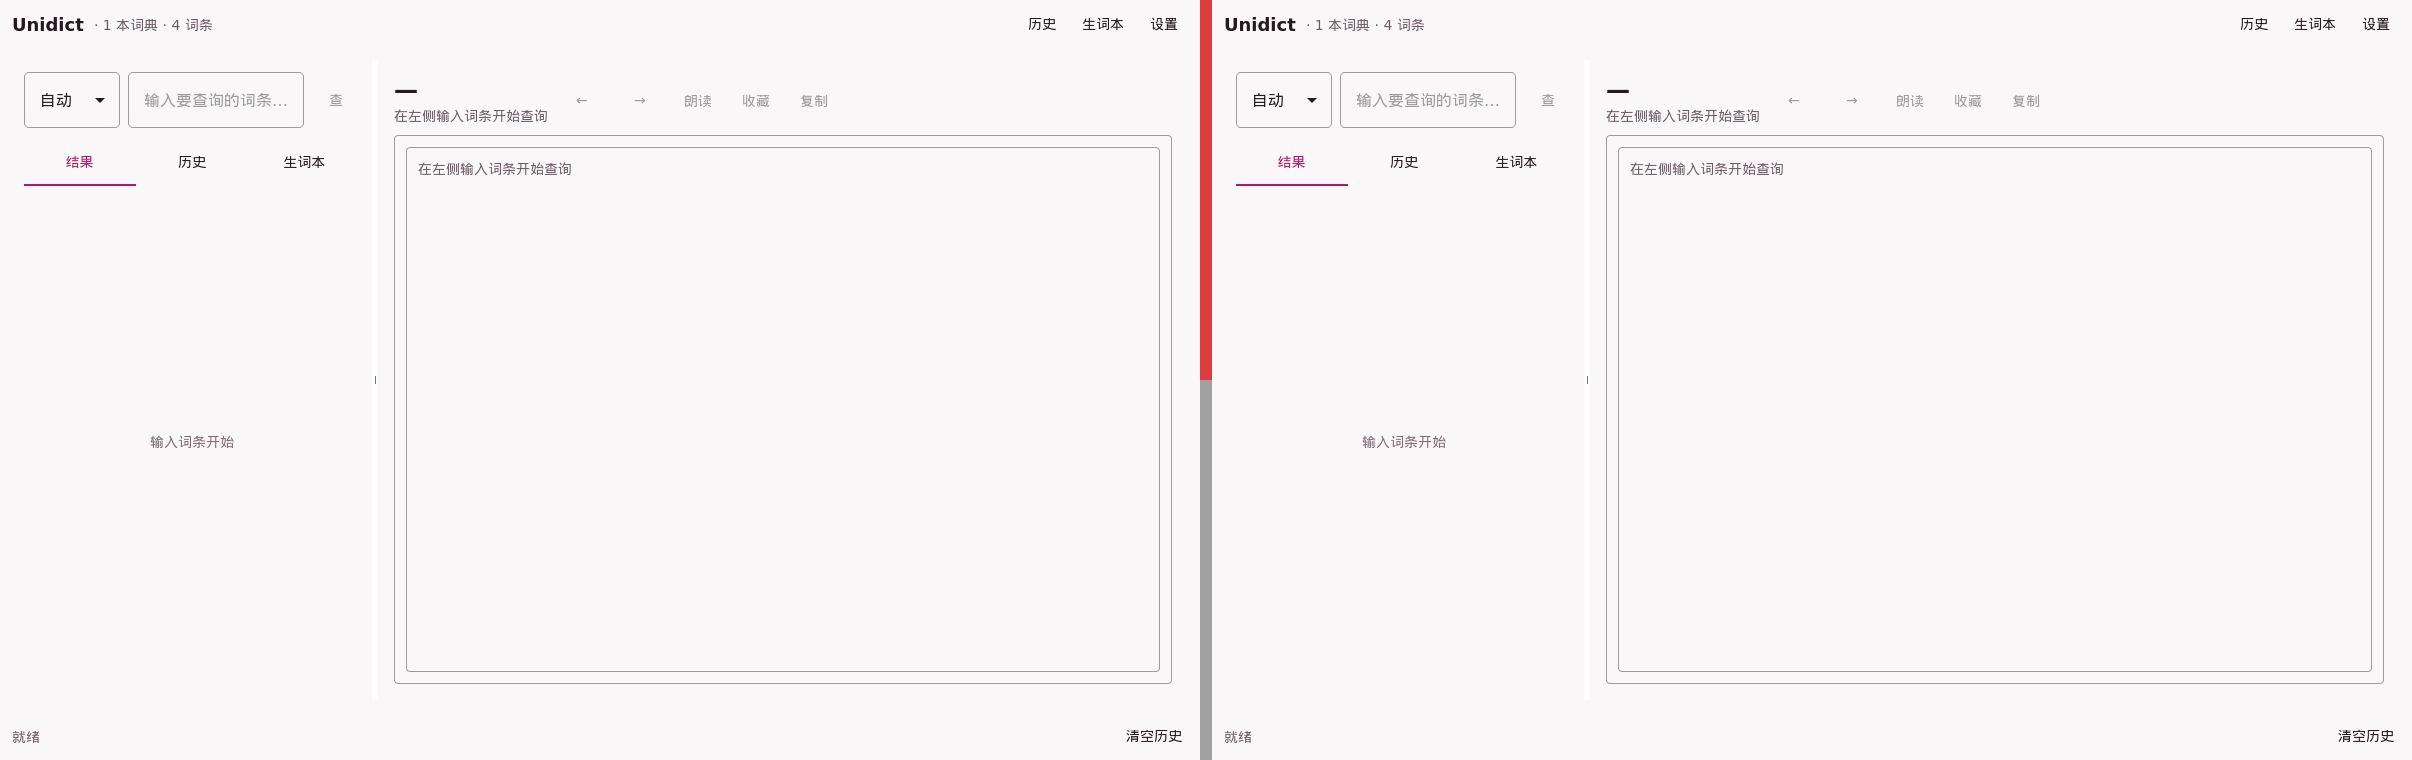
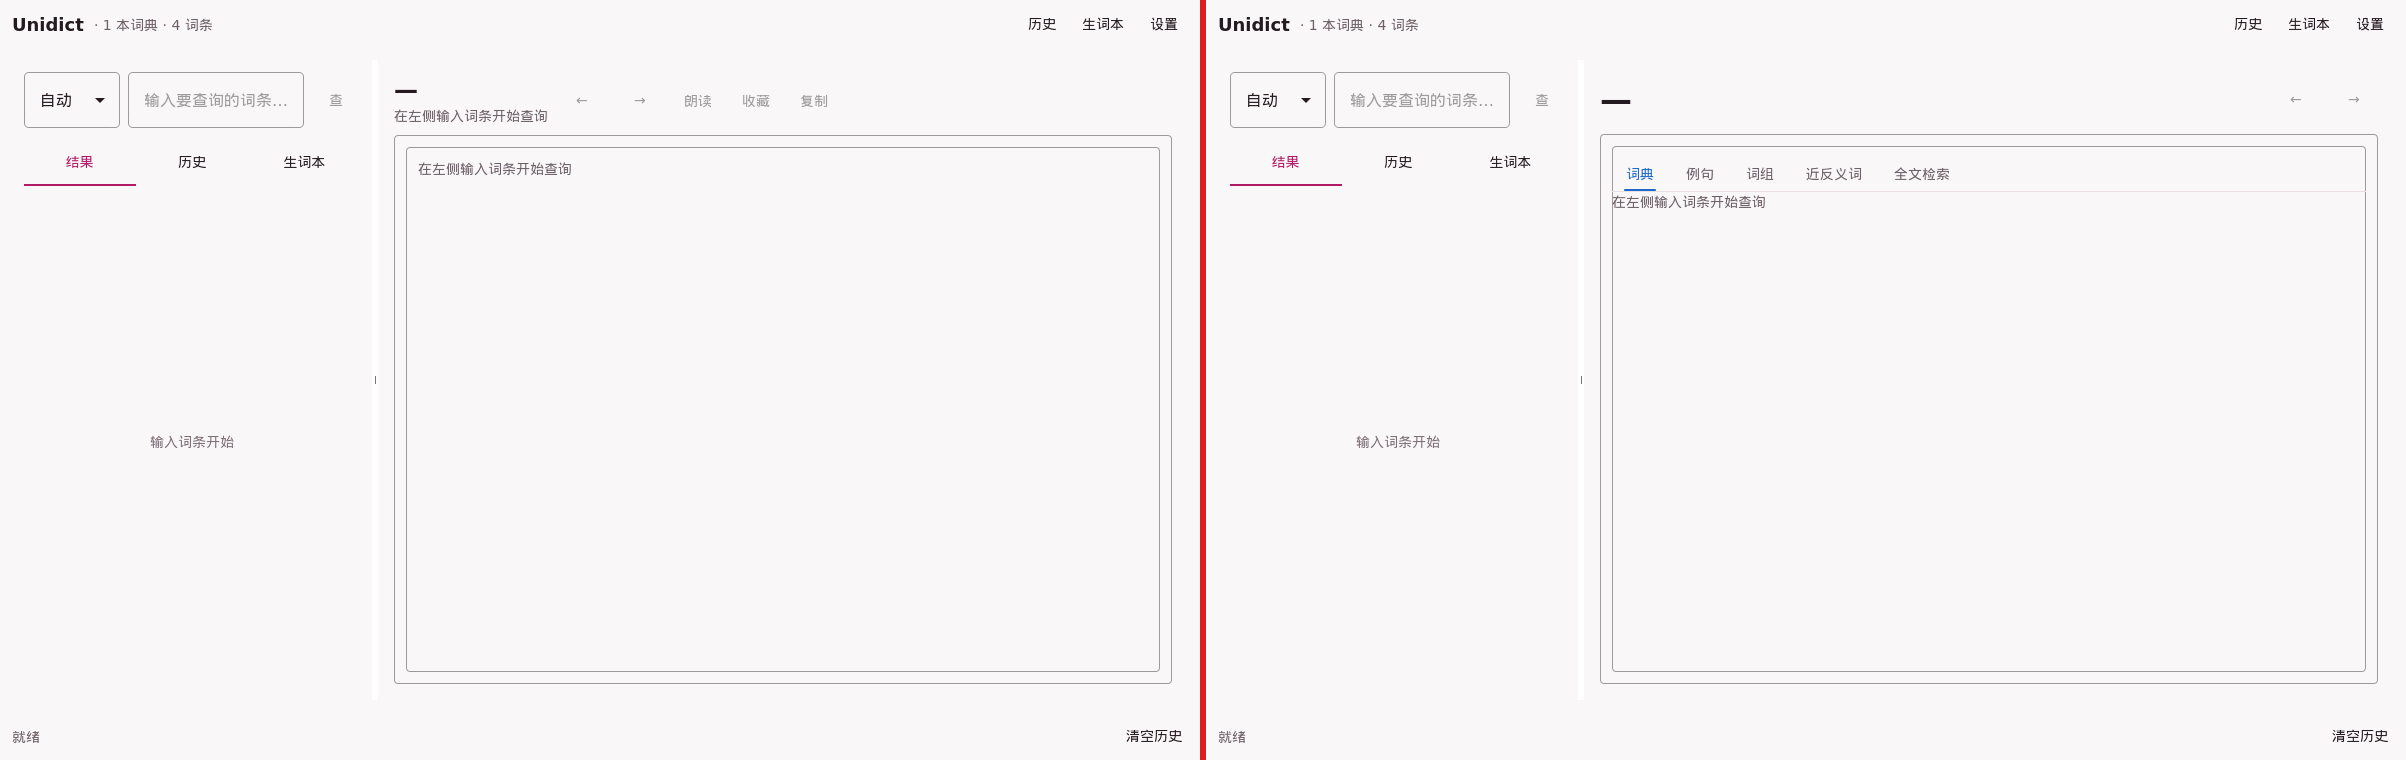
docs(ui): BUG-010 验收留档——八屏基线刷新 + gui 12 屏 + 104 项接线清单回填
- docs/ui 八屏（qmlui）基线刷新为现实现输出：10-04 按欧路标准重排
  （759f93e）+ 接线修复（05dab90）后 10-01 原型稿已过时，「实现即
  原型」口径的现行基准随之更新
- compare/ 八张合成图改为 左=10-01 旧稿 右=10-05 现实现，留设计演进
  记录；此后逐屏走查以新基线为对照面
- compare/gui/ 新增 12 屏（gui 端，设计基准=gui-ui-structure.md）：
  md5 全唯一、亮暗灰度 250/45 可区分
- BUGS.md BUG-010 收口：修复明细（装饰样式/朗读反馈/复制遮蔽/tab
  懒取/两个绑定断线/欧路重排）+ 双端真点全清单（qmlui 57 + gui 47，
  逐项含真点后可观测状态差）

diff --git a/BUGS.md b/BUGS.md
@@ -3,7 +3,7 @@
 用户报告与自查缺陷登记。格式：现象 / 根因 / 修复 / 验收。修复完成即勾，
 带后续验收项的写明口径。
 
-## BUG-010 UI 未按原型图实现 + 大量点击无反应（2026-10-04 登记，修复中）
+## BUG-010 UI 未按原型图实现 + 大量点击无反应（2026-10-04 登记，2026-10-05 修复+双端验收通过）
 
 **现象（用户原话）**：「现在难点是界面 虽然有原型图 但还是没有根据原型图
 实现 点击很多都没有反应」。
@@ -13,24 +13,152 @@
    BUG-009 定案基准）逐控件走查实现：逐屏截图与原型对照，布局/层级/
    配色/控件形态逐项对齐，偏差列清单改齐；
 2. 点击无反应全面排查：逐个可点元素（按钮/词条卡/Tab/折叠卡/发音/
-   设置项）**真点测试**（离屏注入真实 QMouseEvent/QWidget 鼠标事件走
-   事件路径，非直接调函数），断线的接上信号/回调，点不动的不许留，
-   每修一个真点验证一次。
+   设置项）**真点测试**（离屏注入真实鼠标事件走事件路径，非直接调
+   函数），断线的接上信号/回调，点不动的不许留，每修一个真点验证一次。
 
-**验收口径**：gui/qmlui 双端逐屏截图对照原型图 + 「可点元素全接线」清单
-（每个都有真点过的证据）；修完才回主线批次。
+**修复明细**：
+- **装饰样式从未拼上**：`MainDesktop.decorateHtml` 的 `<pre>`/外层 div
+  样式是坏的 JS 字符串（`+ Theme.window +` 落在字面量内部），主题色/
+  字体/边框全没上到释义 HTML——改为真拼接。
+- **朗读三类「点了像没点」**：音标行喇叭本地 TTS 不可用时静默无反馈
+  → 改词条卡朗读统一入口，点击必有状态行反馈（不可用时明示去
+  设置→语音 换在线发音）；英/美分口音路径；例句喇叭改读整句。
+- **复制点击 TypeError**：MouseArea 里的裸名 `clip` 被 `QQuickItem.clip`
+  布尔属性遮蔽（不是服务对象）→ `win.clipService` 限定，补空态回退
+  分支，点击落「已复制释义 · 词典」状态行。
+- **tab 懒取无加载提示**：例句/全文首查构建索引秒级阻塞 → 状态行
+  收口（加载中… → 共 N 条）。
+- **两个真断线**（`05dab90`，qmlui 审计挖出）：① 导航栈 push/pop 原地
+  改数组不发 changed 信号，←/→ 的 enabled 绑定永不重评估、永远禁用
+  → 改整赋；② `ensureTabData` 用 `tabData[key]=…` 原地变异，例句/词组/
+  近反义/全文四个内容 tab 的 model 绑定永不重评估、永远空表 → 改整赋
+  新对象。
+- **结果区按欧路标准重排**（`759f93e`）：配色收敛、层级拉开、括号注释
+  三级灰弱化、实体色 chip（修 rgba 浮点 alpha 解析成纯黑的坑）、gui 端
+  HTML 同口径。
+- **gui 端基建**：`6b02e99` 补 16 处 setObjectName 供定位 + 47 项真点
+  审计 harness。
 
-**排查进行中（先记已定位项，随修随更）**：
-- `MainDesktop.decorateHtml` 的 `<pre>`/外层 div 样式拼接是**坏的 JS
-  字符串**（`+ Theme.window +` 等整段落在字符串字面量内部，从未做真
-  拼接）——主题色/字体/边框样式全部没上到释义 HTML，外层 div 的
-  style 属性被截断成垃圾属性。典型「看起来没按原型渲染」来源。
-- 音标行喇叭（英/美/拼/朗读）点击在本地 TTS 不可用时**静默无反馈**
-  （`ttsSay` 直接空操作，无状态行提示）；英/美两个喇叭行为完全相同
-  （不分口音）；例句行喇叭读的是**词**不是例句。三类「点了像没点」。
-- 例句/全文 tab 懒取走 `fullTextLookup`，大词典首查构建倒排索引秒级
-  阻塞且无任何加载提示（点 tab 卡住 = 「没反应」体感）。
-- 全量真点清单与逐项证据见修复后回填。
+**验收结果（2026-10-05，两项口径全过）**：
+1. **逐屏截图对照**：qmlui 八屏设计基线刷新为现实现（10-04 重排后），
+   旧稿|新实现演进记录与客观度量见 `docs/ui/compare/README.md`；gui 端
+   12 屏留档 `docs/ui/compare/gui/`（设计基准=gui-ui-structure.md，
+   md5 全唯一、亮暗灰度 250/45）。
+2. **可点元素全接线清单**：qmlui **57 项**（`ui_click_audit`，5 连跑
+   稳定）+ gui **47 项**（`gui_click_audit`，3 连跑稳定），双端均进
+   ctest 常驻回归；逐项证据（真点后可观测状态差）如下。
+
+<details><summary>qmlui 57 项真点清单</summary>
+
+1. decorateHtml <pre>/外层 div 主题样式拼接 — 含 background:#、color:# 主题色且无字面 "+ Theme." 残留
+2. openWord(hello) 聚合查询落状态行 — statusText=找到 1 个词典结果
+3. 音标行英/美喇叭存在（fixture 词头带 英/美 音标） — phonSpeakerBr 与 phonSpeakerUs 均可见于词条卡
+4. 英音喇叭点击反馈 — hasLocalTts=false, statusText=本地语音不可用，可在 设置→语音 换用在线发音
+5. 美音喇叭点击反馈（与英音分口音路径） — statusText=本地语音不可用，可在 设置→语音 换用在线发音
+6. 生词本轻入口点击 — statusText=已加入生词本: hello
+7. 复制轻入口点击（剪贴板写入） — statusText=已复制释义 · Unidict Click Audit Fixture
+8. 笔记轻入口打开笔记弹层 — notePopup visible
+9. 笔记弹层取消按钮点击收起 — notePopup hidden after cancel
+10. 内容 tab 元素定位 — contentTab_examples found
+11. 例句 tab 点击（懒取+加载状态行收口） — examples=5 条, statusText=共 5 条
+12. 例句喇叭点击（读整句+反馈） — statusText=本地语音不可用（未检测到系统 TTS 语音），可在 设置→语音 换用在线发音
+13. 例句行词链点击跳转 — currentWord=greeting, 期望=greeting
+14. 词组 tab 点击懒取数据 — phrases[0].word=hello everyone
+15. 词组词链点击跳转 — currentWord=hello everyone, 期望=hello everyone
+16. 近反义 tab 点击懒取数据 — related[0].word=hello everyone
+17. 近义词链接点击跳转 — currentWord=hello everyone, 期望=hello everyone
+18. 全文检索 tab 点击（懒取+状态行） — fulltext=5 条, statusText=共 5 条
+19. 分组头存在 — groupHeader_0 located
+20. 分组头点击折叠 — collapsed 含 true
+21. 分组头再点展开 — collapsed 全 false
+22. 组内词头链点击跳转 — currentWord=hello, 期望=hello
+23. 导航 ← 返回上一词 — currentWord=hello
+24. 导航 → 前进 — currentWord=world
+25. 侧栏「查」按钮点击提交查询 — currentWord=hello
+26. 建议列表项点击查询 — currentWord=hello, 期望=hello
+27. 侧栏「历史」tab 点击 — currentTabIndex=1
+28. 历史项点击查询 — currentWord=greeting, 期望=greeting
+29. 侧栏「生词本」tab 点击 — currentTabIndex=2
+30. 标签筛选 chip 点击过滤 — vocabTagFilter=greeting
+31. 「全部」chip 点击清筛选 — vocabTagFilter 为空
+32. 生词卡点击查询 — currentWord=hello, 期望=hello
+33. 生词卡「+标签」打开标签对话框 — tagDialog visible
+34. 生词卡「笔记」打开笔记对话框 — noteDialog visible
+35. 「导出CSV」点击（signal 级：native 文件对话框离屏不出窗） — clicked 计数=1
+36. 头部「历史」按钮 — currentTabIndex=1
+37. 头部「生词本」按钮 — currentTabIndex=2
+38. 头部「设置」按钮开抽屉 — toolsDrawer visible
+39. 剪贴板取词开关点击（UI+core 双证） — checked 0→1
+40. 剪贴板取词开关还原 — core 状态回原
+41. 取词悬浮窗开关点击 — checked 1→0
+42. 轮询间隔 Slider 点击改值 — value 500→1900
+43. 最短词长 SpinBox「+」步进钮点击 — value 2→3
+44. 最长词长 SpinBox「+」步进钮点击 — value 50→51
+45. 抽屉「语音」tab 切换 — volumeSlider 可见
+46. 「停止」按钮点击 — 执行无异常（停止播放副作用离屏不可观测）
+47. 「刷新」语音按钮点击 — 执行无异常（重扫语音副作用离屏不可观测）
+48. 口音 ComboBox 选择接线（signal 级） — pronAccent=2
+49. 发音源 ComboBox 选择接线（signal 级） — pronSourceMode=1
+50. 发音源还原本地态 — pronSourceMode=0
+51. 页脚「清空历史」按钮 — statusText=历史已清空, history=0
+52. 取词窗弹出 — quickLookupPane visible
+53. 取词窗朗读按钮（TTS 缺失给明示） — statusText=本地语音不可用（未检测到系统 TTS 语音），可在 设置→语音 换用在线发音
+54. 取词窗生词本按钮 — statusText=已加入生词本: hello
+55. 取词窗 ✕ 关闭 — pane hidden
+56. 取词窗「在主窗打开」收窗并落主窗词条卡 — pane hidden, currentWord=hello
+57. 取词窗「关闭」按钮 — pane hidden
+</details>
+
+<details><summary>gui 47 项真点清单</summary>
+
+1. 启动初始态：收藏按钮禁用（未查询） — starButton enabled=0
+2. 启动初始态：搜索框就位 — placeholder=输入单词或词组…
+3. 启动初始态：词典管理入口存在 — manageButton located
+4. 回车查询落状态行 — statusText=Found in Unidict Click Audit Fixture
+5. 回车查询出释义 — resultView len=222
+6. 查询成功后收藏按钮可用 — starButton enabled=1
+7. 补全选中回填并查询 — items=1 picked=hello
+8. 内容页签五个 — count=5
+9. 五内容页签逐个真点切换 — 0-4 全部切到位
+10. 例句页有数据 — len=598
+11. 词组页有数据 — len=89
+12. 近反义页有数据 — len=15
+13. 全文页有数据 — len=583
+14. 例句页 #ft 锚点真点跳转 — clicked=1 word=hello
+15. 侧栏页签（历史/收藏） — count=2
+16. 侧栏「收藏」页签真点切换 — currentIndex=1
+17. 侧栏「历史」页签真点切换 — currentIndex=0
+18. 历史有条目（前序查询产生） — count=1
+19. 历史项双击回查 — word=hello input=hello
+20. 历史右键菜单真点「置顶/取消置顶」 — menuPicked=1 pinned 0→1
+21. 历史右键菜单真点「删除该条」 — removed=1 count 2→1
+22. 收藏按钮真点入库 — vocabList=1 stored=1
+23. 收藏项双击回查 — word=hello input=hello
+24. 收藏右键真点「设置标签…」→ 输入框代填落库 — modalSeen=1 tagged=1
+25. 收藏分组下拉聚合了 en 标签 — items=2
+26. 收藏分组过滤真点生效 — picked=1 count=1
+27. 收藏右键菜单真点「移除收藏」 — removed=1 count 1→0
+28. 工具栏剪贴板取词按钮就位 — located
+29. 剪贴板取词开关真点翻转+记忆 — 0→1
+30. 剪贴板取词开关还原 — 回 0
+31. 主题循环按钮就位 — 主题: 跟随系统
+32. 主题真点切换 — 主题: 跟随系统 → 主题: 浅色
+33. 主题循环还原 — 回 主题: 跟随系统
+34. 释义字体按钮就位 — located
+35. 释义字体真点弹字体对话框（取消路径） — modalSeen=1
+36. 笔记按钮就位且可用 — enabled=1
+37. 笔记真点代填保存落库 — modalSeen=1 note=audit note
+38. 发音练习按钮就位 — located
+39. 发音练习真点弹面板（离屏即关） — modalSeen=1
+40. 词典管理入口就位 — located
+41. 词典管理对话框真点打开，八按钮齐全 — modalSeen=1 buttons=8
+42. 词典管理「启用/禁用」真点翻转 — toggled=1
+43. 分组标签真点设置 → 分组下拉聚合 — groupBox items=2
+44. 「添加词典文件…」真点弹文件对话框（取消路径） — modalSeen=1 fileDialog=1
+45. 全局热键按钮就位 — located
+46. 全局热键平台态正确 — supported=0 enabled=0
+47. 关窗收口（离屏无托盘直退） — visible=0
+</details>
 
 ## BUG-009 查词结果展示全是乱的、很多重复 ✅修复+三词走查通过（2026-10-03 登记并修复）
 

diff --git a/docs/ui/compare/README.md b/docs/ui/compare/README.md
@@ -1,11 +1,30 @@
-# 原型 vs 实现对照
+# 实现截图留档（BUG-010 逐屏对照）
 
-每张图：**左 = `docs/ui/` 原型稿，右 = 当前实现离屏截图**（1200×760，
-红/灰竖条分隔）。判据：单屏 md5 两侧逐字节一致（home/result/vocab/
-settings × light/dark 八张全 MATCH，2026-10-03 BUG-003 修复后复验：
-八屏像素差合计 0、md5 逐字节一致——实现即原型）。
-修复内容见 BUGS.md BUG-003（抽屉定高 + 语音 ScrollView）。
+BUG-010 验收的截图侧证据（接线侧证据=双端真点清单，见 BUGS.md）。
+采集：`-DUNIDICT_BUILD_UI_SANDBOX=ON` 后跑
 
-实现截图由 `unidict_ui_sandbox`（`-DUNIDICT_BUILD_UI_SANDBOX=ON`）对
-QML 应用（MainDesktop.qml）离屏采集；每日构建 Windows/macOS 包的 GUI
-主程序 `unidict_qml` 加载的正是这套 QML（BUGS.md BUG-002 修复记录）。
+```bash
+UNIDICT_DICTS=examples/dict.json build/Release/unidict_ui_sandbox <出图目录>
+UNIDICT_DICTS=qmlui/dev/fixtures/click_audit_dict.json \
+    build/Release/unidict_gui_sandbox <出图目录>
+```
+
+## qmlui（`home/result/vocab/settings × light/dark` 八张，1200×760）
+
+- **设计基准 = `docs/ui/`**（2026-10-01 稿；2026-10-04 起实现按欧路标准
+  重排——结果区配色/层级/注释弱化（759f93e）+ 接线修复（05dab90）——
+  基线于 2026-10-05 刷新为现实现输出，即「实现即原型」口径的现行基准）。
+- 本目录八张合成图：**左 = 10-01 旧稿，右 = 10-05 现实现**（红竖条
+  分隔），留设计演进记录；此后逐屏走查以 `docs/ui/` 新基线为对照面。
+- 每日构建 Windows/macOS 包的 GUI 主程序 `unidict_qml` 加载的正是这套
+  QML（BUGS.md BUG-002 修复记录）；抽屉定高等历史修复见 BUG-003。
+
+## gui（`gui/` 子目录 12 张：home/result/examples/history/vocab/manage × light/dark）
+
+- **设计基准是 `docs/gui-ui-structure.md`**（Qt Widgets 一屏一焦点），
+  与 `docs/ui/` 的 QML 原型稿非同一设计基准——双端同属「按各自设计稿
+  实现+全接线」验收，不逐像素互比。
+- 客观度量（2026-10-05 采集复验）：12 张 md5 全唯一；亮暗灰度均值
+  250 vs 45（主题可区分性达标）。图由 `unidict_gui_sandbox` 离屏采集，
+  存储钉临时目录不碰真实用户数据。
+- 已知采集伪象：离屏容器缺 IPA 字体时音标行呈豆腐块，桌面真机正常。
